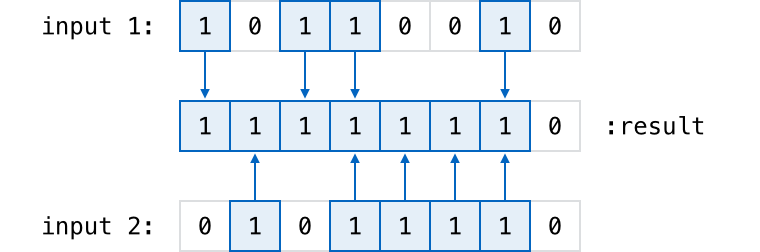
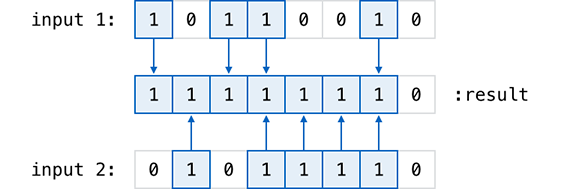
Resized all of the placeholder artwork so that it fits within the bounds of a [Tool J] page. Removed all explicit image sizes from the .rst files, because they weren't used anyway.
This is a temporary improvement, but means our short-term [Tool J] builds will look nicer.

diff --git a/LanguageGuide/AdvancedOperators.rst b/LanguageGuide/AdvancedOperators.rst
@@ -25,7 +25,6 @@ Bitwise NOT Operator
 The :newTerm:`bitwise NOT operator` (``~``) inverts all of the bits in a number:
 
 .. image:: ../images/bitwiseNOT.png
-   :width: 570
    :align: center
 
 The bitwise NOT operator is a prefix operator,
@@ -62,7 +61,6 @@ The :newTerm:`bitwise AND operator` (``&``) combines the bits of two numbers.
 It returns a new number whose bits are set to ``1`` only if the bits were equal to ``1`` in *both* input numbers:
 
 .. image:: ../images/bitwiseAND.png
-   :width: 570
    :align: center
 
 For example:
@@ -90,7 +88,6 @@ and returns a new number whose bits are set to ``1``
 if the bits were equal to ``1`` in *either* of the input numbers:
 
 .. image:: ../images/bitwiseOR.png
-   :width: 570
    :align: center
 
 For example:
@@ -119,7 +116,6 @@ and returns a new number whose bits are set to ``1`` where the input bits are di
 and ``0`` where the input bits are the same:
 
 .. image:: ../images/bitwiseXOR.png
-   :width: 570
    :align: center
 
 For example:
@@ -172,7 +168,6 @@ gray numbers have been discarded,
 and orange zeroes have been inserted:
 
 .. image:: ../images/bitshiftUnsigned.png
-   :width: 639
    :align: center
 
 Here's how bit shifting looks in Swift code:
@@ -265,7 +260,6 @@ counting upwards from ``0``.
 Here's how the bits inside an ``Int8`` look for the number ``4``:
 
 .. image:: ../images/bitshiftSignedFour.png
-   :width: 388
    :align: center
 
 The sign bit is ``0`` (meaning “positive”),
@@ -281,14 +275,12 @@ so this means ``2`` to the power of ``7``, or ``128``.
 Here's how the bits inside an ``Int8`` look for the number ``-4``:
 
 .. image:: ../images/bitshiftSignedMinusFour.png
-   :width: 388
    :align: center
 
 This time, the sign bit is ``1`` (meaning “negative”),
 and the seven value bits actually have a binary value of ``124`` (which is ``128 - 4``):
 
 .. image:: ../images/bitshiftSignedMinusFourValue.png
-   :width: 388
    :align: center
 
 The encoding used for negative numbers is known as a :newTerm:`two's complement` representation.
@@ -301,7 +293,6 @@ just by performing a standard binary addition of all eight bits
 and discarding anything that doesn't fit in the eight bits once you're done:
 
 .. image:: ../images/bitshiftSignedAddition.png
-   :width: 445
    :align: center
 
 The two's complement representation also means that you can
@@ -316,7 +307,6 @@ To achieve this, an extra rule is used when shifting signed integers to the righ
   rather than with a zero.
 
 .. image:: ../images/bitshiftSigned.png
-   :width: 639
    :align: center
 
 This ensures that signed integers have the same sign after they are shifted to the right,
@@ -397,7 +387,6 @@ as shown in the diagram below.
 The value that remains within the bounds of the ``UInt8`` after the overflow addition is ``00000000``, or zero:
 
 .. image:: ../images/overflowAddition.png
-   :width: 390
    :align: center
 
 .. _AdvancedOperators_ValueUnderflow:
@@ -414,7 +403,6 @@ the number will overflow back round to ``11111111``,
 or ``255`` in decimal:
 
 .. image:: ../images/overflowUnsignedSubtraction.png
-   :width: 419
    :align: center
 
 Here's how that looks in Swift code:
@@ -440,7 +428,6 @@ which toggles the sign bit and gives positive ``127``,
 the largest positive value that an ``Int8`` can hold:
 
 .. image:: ../images/overflowSignedSubtraction.png
-   :width: 419
    :align: center
 
 Here's the same thing in Swift code:
@@ -648,7 +635,6 @@ This example adds together the vectors ``(3.0, 1.0)`` and ``(2.0, 4.0)``
 to make the vector ``(5.0, 5.0)``, as illustrated below.
 
 .. image:: ../images/vectorAddition.png
-   :width: 400
    :align: center
 
 .. _AdvancedOperators_PrefixAndPostfixOperators:

diff --git a/LanguageGuide/BasicOperators.rst b/LanguageGuide/BasicOperators.rst
@@ -174,7 +174,6 @@ Here's how the remainder operator works.
 To calculate ``9 % 4``, you first work out how many ``4``\ s will fit inside ``9``:
 
 .. image:: ../images/remainderInteger.png
-   :width: 349
    :align: center
 
 You can fit two ``4``\ s inside ``9``, as this illustration shows.
@@ -233,7 +232,6 @@ In this example, ``8`` divided by ``2.5`` equals ``3``, with a remainder of ``0.
 so the remainder operator returns a ``Double`` value of ``0.5``.
 
 .. image:: ../images/remainderFloat.png
-   :width: 311
    :align: center
 
 .. _BasicOperators_IncrementAndDecrementOperators:

diff --git a/LanguageGuide/Subscripts.rst b/LanguageGuide/Subscripts.rst
@@ -168,7 +168,6 @@ The ``grid`` array is effectively a flattened version of the matrix,
 as read from top left to bottom right:
 
 .. image:: ../images/subscriptMatrix01.png
-   :width: 488
    :align: center
 
 The ``Matrix`` subscript has a return type of ``Double?``, or “optional ``Double``”.
@@ -215,7 +214,6 @@ and ``3.2`` in the bottom left position
 (where ``row`` is ``1`` and ``column`` is ``0``):
 
 .. image:: ../images/subscriptMatrix02.png
-   :width: 300
    :align: center
 
 The subscript's setter has an implicit ``value`` parameter of type ``Double?``.

diff --git a/LanguageGuide/Properties.rst b/LanguageGuide/Properties.rst
@@ -302,7 +302,6 @@ which modifies the ``x`` and ``y`` values of the stored ``origin`` property,
 and moves the square to its new position.
 
 .. image:: ../images/computedProperties.png
-   :width: 400
    :align: center
 
 .. _Properties_ShorthandSetterDeclaration:
